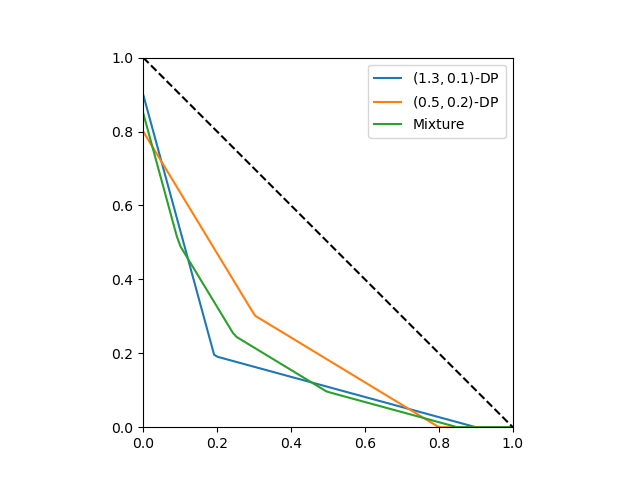
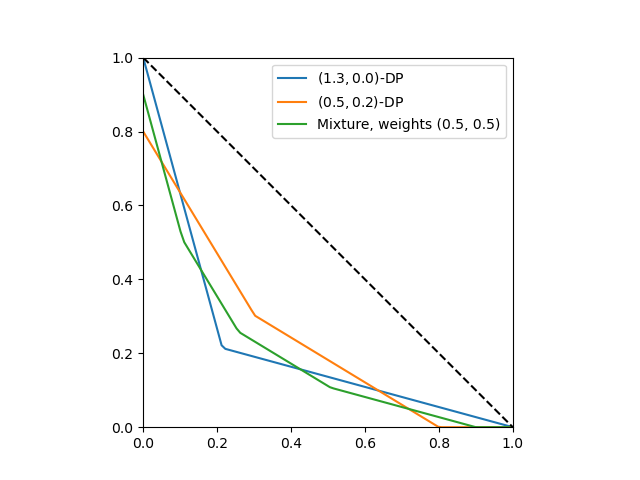
cleaning up a bit

Changed region(s): [[0.2188, 0.125, 0.7812, 0.9062], [0.4375, 0.125, 0.7812, 0.2812], [0.4375, 0.1562, 0.4688, 0.2188]]

diff --git a/src/main.py b/src/main.py
@@ -1,10 +1,12 @@
 from multi_dp_mixture.dp_functions import MultiEpsDeltaTradeoff, SingleEpsDeltaTradeoff
-from multi_dp_mixture.piecewise_affine import PiecewiseAffine
+from multi_dp_mixture.piecewise_affine import PiecewiseAffine, DIAGONAL
 from imports import *
 from main_theorems.combinatorial_version import privacy_region_composition_double_dp_combinatorial
 from main_theorems.heterogeneous_version import privacy_region_composition_double_dp_heterogeneous_comp, \
-    privacy_region_composition_heterogeneous, privacy_region_composition_heterogeneous_fails_sanity_check
+    privacy_region_composition_heterogeneous
 from main_theorems.other_composition_theorems import *
+from utils import plot_multiple_functions
+
 
 def multi_dp_test():
     eps_s = [0.8, 0.25]
@@ -35,16 +37,24 @@ def double_convex_conj_is_identity_test():
 def first_addition_test():
     alpha_1 = 0.5
     alpha_2 = 1 - alpha_1
-    f1 = SingleEpsDeltaTradeoff(1.3, 0.1)
-    f2 = SingleEpsDeltaTradeoff(0.5, 0.2)
+    eps_1 = 1.3
+    delta_1 = 0.0
+    eps_2 = 0.5
+    delta_2 = 0.2
+    f1 = SingleEpsDeltaTradeoff(eps_1, delta_1)
+    f2 = SingleEpsDeltaTradeoff(eps_2, delta_2)
     f = PiecewiseAffine.weighted_infimal_convolution([alpha_1, alpha_2], [f1, f2])
 
-    PiecewiseAffine.plot_multiple_functions([f1, f2, f], ["$(1.3,0.1)$-DP", "$(0.5,0.2)$-DP", "Mixture"])
+    plot_multiple_functions([f1, f2, f],
+                                            [f"$({eps_1},{delta_1})$-DP",
+                                             f"$({eps_2},{delta_2})$-DP",
+                                             f"Mixture, weights ({alpha_1}, {alpha_2})"
+                                             ])
 
 def two_theorems_match():
-    eps_1 = 1.31
-    delta_1 = 0.1
-    eps_2 = 0.5
+    eps_1 = 1.3
+    delta_1 = 0.0
+    eps_2 = 0.6
     delta_2 = 0.2
     k = 3
 
@@ -54,18 +64,18 @@ def two_theorems_match():
     f_dp_1 = privacy_region_composition_exact(eps_1, delta_1, k)
     f_dp_2 = privacy_region_composition_exact(eps_2, delta_2, k)
 
-    PiecewiseAffine.plot_multiple_functions(
+    plot_multiple_functions(
         [
-         #fo,
-         f1,
+         fo,
+         #f1,
          f2,
          f_dp_1,
          f_dp_2
          ],
         [
-        #f"$({eps_1},{delta_1})$ and $({eps_2},{delta_2})$ DP",
-         f"Heterogeneous ${k}$ comp.",
-         f"Combinatorial ${k}$ comp.",
+         f"$({eps_1},{delta_1})$ and $({eps_2},{delta_2})$ DP",
+         #f"Heterogeneous ${k}$ comp.",
+         f"Double DP ${k}$ comp.",
          f"$({eps_1},{delta_1})$-DP {k} comp.",
          f"$({eps_2},{delta_2})$-DP {k} comp."
          ]
@@ -80,12 +90,10 @@ def privacy_region_heter_sanity_check():
     y = 0
 
     f_comp = privacy_region_composition_heterogeneous(eps_1, eps_2, x, y)
-    f_comp_2 = privacy_region_composition_heterogeneous_fails_sanity_check(eps_1, eps_2, x, y)
     f_original = privacy_region_composition_exact(eps_1, 0, x)
 
-    PiecewiseAffine.plot_multiple_functions([f_comp, f_comp_2, f_original],
-                                            ["Heterogeneous new", "Heterogeneous fails sanity check", "Original"])
-    PiecewiseAffine.plot_multiple_functions([f_comp, f_original],["Heterogeneous new", "Original"])
+    plot_multiple_functions([f_comp, f_original],["Heterogeneous new", "Original"])
+
 
 two_theorems_match()
 # privacy_region_heter_sanity_check()

diff --git a/src/main_theorems/heterogeneous_version.py b/src/main_theorems/heterogeneous_version.py
@@ -63,64 +63,6 @@ def privacy_region_composition_heterogeneous(eps_1, eps_2, x, y) -> PiecewiseAff
     return MultiEpsDeltaTradeoff(eps_ls, delta_ls)
 
 
-def privacy_region_composition_heterogeneous_fails_sanity_check(eps_1, eps_2, x, y) -> PiecewiseAffine:
-    """
-    Computes privacy region corresponding to the composition of x (eps_1,0)-DP mechanisms
-    with y (eps_2, 0)-DP mechanisms.
-
-    :param eps_1: Privacy parameter epsilon for the first kind of mechanism.
-    :type eps_1: float. > 0
-    :param eps_2: Privacy parameter epsilon for the second kind of mechanism.
-    :type eps_2: float, > 0
-    :param x: Number of first kind of mechanisms.
-    :type x: int
-    :param y: Number of second kind of mechanisms.
-    :type y: int
-    :return: A compositional trade-off function derived from combinations of mechanisms.
-    :rtype: PiecewiseAffine
-    """
-    def compute_epsilon_from_ab(a, b):
-        return eps_1 * (2 * a - x) + eps_2 * (2 * b - y)
-
-    def compute_delta_from_ab(a_star, b_star):
-        delta = 0
-
-        b_0 = int(np.ceil((a_star-x)*(eps_1/eps_2) + b_star))
-        for b in range(b_0, y+1):
-            a_0 = int(np.ceil((b_star-b)*(eps_2/eps_1) + a_star))
-            for a in range(a_0, x+1):
-                first_term = np.exp(a * eps_1 + b * eps_2)
-                second_term = np.exp(2 * (a_star * eps_1 + b_star * eps_2) - (a * eps_1 + b * eps_2))
-                delta += first_term - second_term
-
-        first_factor = (1/(np.exp(eps_1)+1)) ** x
-        second_factor = (1/(np.exp(eps_2)+1)) ** y
-        delta = delta * first_factor * second_factor
-        return delta
-
-    def compute_a():
-        a_set = []
-        for a in range(0,x+1):
-            for b in range(0,y+1):
-                if compute_epsilon_from_ab(a, b) >= 0:
-                    a_set.append((a,b))
-        return a_set
-
-    assert eps_1 > 0
-    assert eps_2 > 0
-    assert x >= 0
-    assert y >= 0
-
-    if eps_2 > eps_1:
-        eps_1, eps_2 = eps_2, eps_1
-        x, y = y, x
-
-    a_set = compute_a()
-    eps_ls = [compute_epsilon_from_ab(a, b) for a, b in a_set]
-    delta_ls = [compute_delta_from_ab(a, b) for a, b in a_set]
-
-    return MultiEpsDeltaTradeoff(eps_ls, delta_ls)
-
 def privacy_region_composition_double_dp_heterogeneous_comp(eps_1, delta_1, eps_2, delta_2, k) -> PiecewiseAffine:
     """
     Computes the privacy region composition of k doubly (eps,delta)-DP constrained

diff --git a/src/multi_dp_mixture/piecewise_affine.py b/src/multi_dp_mixture/piecewise_affine.py
@@ -1,8 +1,6 @@
-import numpy as np
-
 from src.definitions import *
 
-class PiecewiseAffine:
+class PiecewiseAffine(TradeOffFunction):
     """
     Represents a piecewise affine function.
 
@@ -224,49 +222,6 @@ class PiecewiseAffine:
             f_star += weights[i] * f_arr[i].convex_conjugate()
         f_mixture = f_star.convex_conjugate()
         return f_mixture
-
-    @staticmethod
-    def plot_multiple_functions(
-            f_arr: List['PiecewiseAffine'],
-            labels: List[str],
-            start=0,
-            end=1,
-            num_points=100
-    ):
-        """
-        Plots multiple functions on the same graph, providing a visual comparison
-        between a list of given function objects and their respective labels.
-
-        :param f_arr: A list of PiecewiseAffine objects, where each object represents
-                      a function to be plotted.
-        :type f_arr: List[PiecewiseAffine]
-        :param labels: A list of labels corresponding to each function in f_arr,
-                       which will be used for the plot's legend.
-        :type labels: List[str]
-        :type start: First point to plot. Defaults to 0.
-        :type start: float, optional
-        :type end: Last point to plot. Defaults to 1.
-        :type end: float, optional
-        :param num_points: The granularity of the plot, specifying the number of
-                           sample points to generate within the range [start, end].
-                           Defaults to 100.
-        :type num_points: int, optional
-        :return: None
-        """
-        assert len(f_arr) == len(labels)
-
-        x = np.linspace(start,end, num_points)
-        fig = plt.figure()
-        ax = fig.add_subplot()
-        for f, label in zip(f_arr, labels):
-            plt.plot(x, f(x), label=label)
-
-        plt.plot(x, DIAGONAL(x), "k--")
-        plt.legend()
-        ax.set_aspect('equal', adjustable='box')
-        ax.set_autoscale_on(False)
-
-        plt.show()
 
 
 DIAGONAL = PiecewiseAffine([-1], [1])

diff --git a/src/utils.py b/src/utils.py
@@ -1,0 +1,44 @@
+from definitions import *
+from multi_dp_mixture.piecewise_affine import DIAGONAL
+
+def plot_multiple_functions(
+        f_arr: List[TradeOffFunction],
+        labels: List[str],
+        start=0,
+        end=1,
+        num_points=100
+):
+    """
+    Plots multiple functions on the same graph, providing a visual comparison
+    between a list of given function objects and their respective labels.
+
+    :param f_arr: A list of PiecewiseAffine objects, where each object represents
+                  a function to be plotted.
+    :type f_arr: List[PiecewiseAffine]
+    :param labels: A list of labels corresponding to each function in f_arr,
+                   which will be used for the plot's legend.
+    :type labels: List[str]
+    :type start: First point to plot. Defaults to 0.
+    :type start: float, optional
+    :type end: Last point to plot. Defaults to 1.
+    :type end: float, optional
+    :param num_points: The granularity of the plot, specifying the number of
+                       sample points to generate within the range [start, end].
+                       Defaults to 100.
+    :type num_points: int, optional
+    :return: None
+    """
+    assert len(f_arr) == len(labels)
+
+    x = np.linspace(start, end, num_points)
+    fig = plt.figure()
+    ax = fig.add_subplot()
+    for f, label in zip(f_arr, labels):
+        plt.plot(x, f(x), label=label)
+
+    plt.plot(x, DIAGONAL(x), "k--")
+    plt.legend()
+    ax.set_aspect('equal', adjustable='box')
+    ax.set_autoscale_on(False)
+
+    plt.show()

diff --git a/src/f_dp_approximation/tradeoff_function.py b/src/f_dp_approximation/tradeoff_function.py
@@ -1,7 +1,5 @@
 from definitions import *
 
-TradeOffFunction = Callable[[Array], Array]
-
 class SmoothTradeOffFunction(TradeOffFunction, ABC):
 
     @abstractmethod

diff --git a/src/definitions.py b/src/definitions.py
@@ -5,3 +5,5 @@ Float = float
 
 DEFAULT_DOMAIN_START = 0.0
 DEFAULT_DOMAIN_END = 1.0
+
+TradeOffFunction = Callable[[Array], Array]
